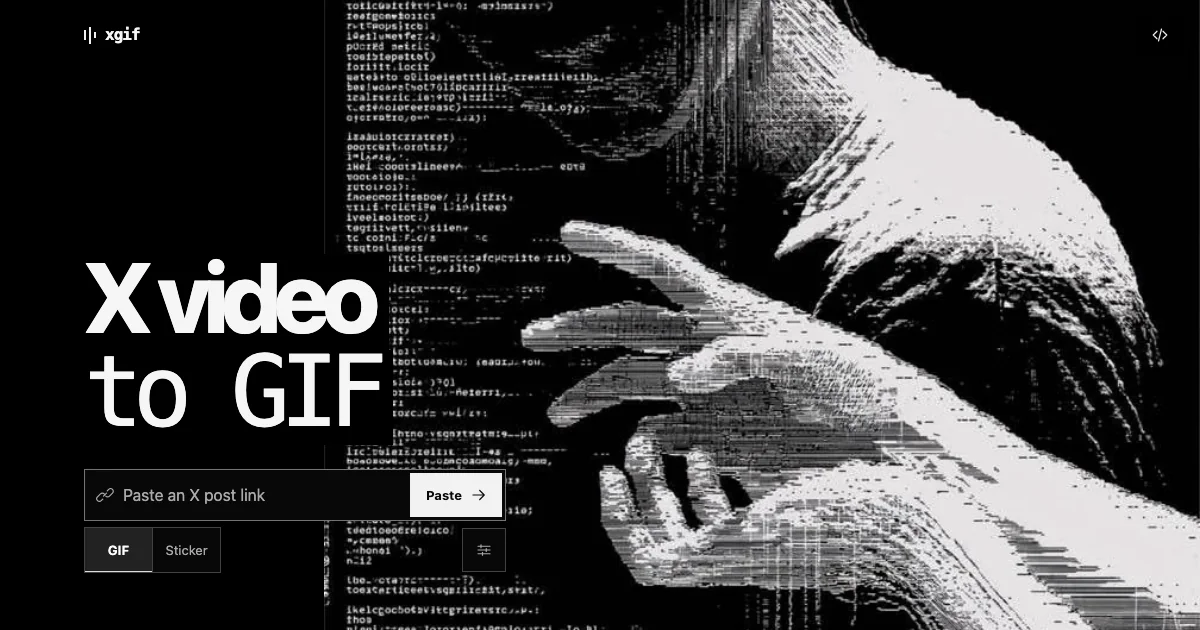
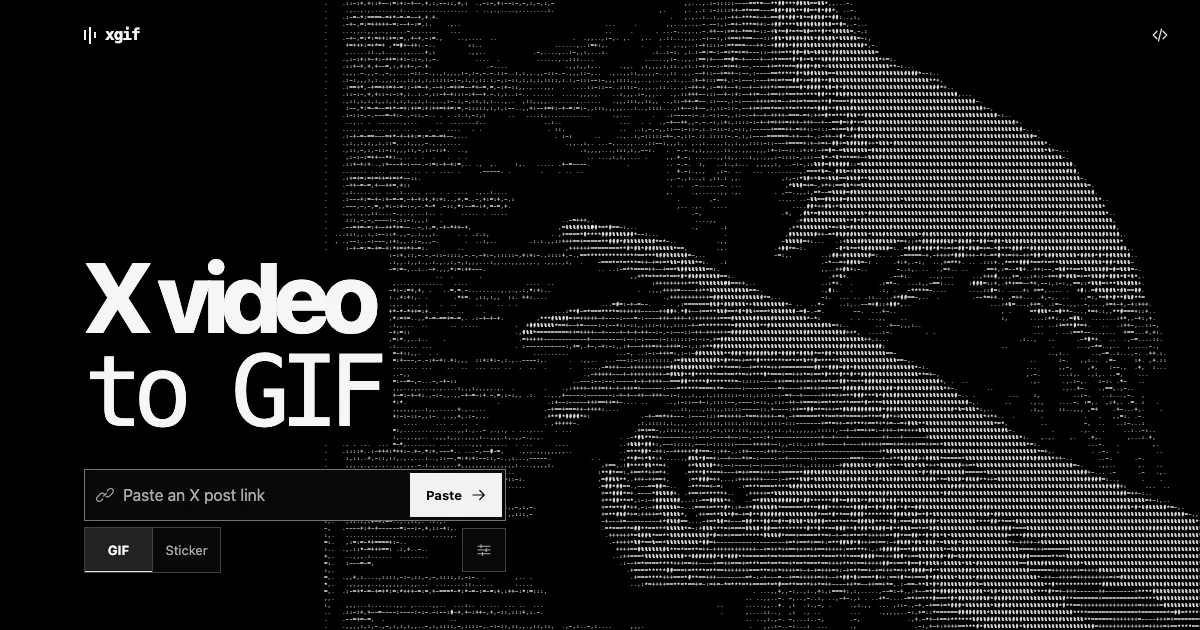
Render the xgif portrait as interactive ASCII

diff --git a/src/artwork.js b/src/artwork.js
@@ -1,38 +1,105 @@
+const ramp = ' .,:-+=*#%@';
+const shades = Array.from({ length: ramp.length }, (_, index) => {
+  const light = Math.round(106 + 149 * index / (ramp.length - 1));
+  return `rgb(${light}, ${light}, ${light})`;
+});
+
 export function mountArtwork(picture) {
-  const motion = matchMedia('(hover: hover) and (pointer: fine) and (prefers-reduced-motion: no-preference)');
   const artwork = picture.parentElement;
   const image = picture.querySelector('img');
-  const echoes = [];
+  const screen = artwork.querySelector('canvas');
+  const display = screen.getContext('2d', { alpha: false });
+  const base = document.createElement('canvas');
+  const glyphs = base.getContext('2d', { alpha: false });
+  const grid = document.createElement('canvas');
+  const sampler = grid.getContext('2d', { willReadFrequently: true });
+  if (!display || !glyphs || !sampler) return;
 
+  const motion = matchMedia('(hover: hover) and (pointer: fine) and (prefers-reduced-motion: no-preference)');
+  let layout;
   let point;
   let previousX;
   let frame;
   let quiet;
 
-  function paint() {
-    frame = undefined;
-    if (!motion.matches || !point) return;
-    const bounds = artwork.getBoundingClientRect();
-    if (!bounds.width || !bounds.height) return;
+  function render() {
+    const width = artwork.clientWidth;
+    const height = artwork.clientHeight;
+    if (!width || !height || !image.naturalWidth) return;
+    const ratio = Math.min(2, devicePixelRatio || 1);
+    const source = image.currentSrc;
+    if (layout?.width === width && layout.height === height && layout.ratio === ratio && layout.source === source) return;
 
-    if (!echoes.length) {
-      for (let index = 0; index < 2; index += 1) {
-        const echo = picture.cloneNode(true);
-        echo.removeAttribute('id');
-        echo.querySelector('img').removeAttribute('fetchpriority');
-        echoes.push(echo);
-        echo.className = 'art-echo';
-        artwork.append(echo);
+    const fontSize = Math.min(9, Math.max(6, Math.round(width / 150)));
+    const rowHeight = fontSize + 1;
+    glyphs.font = `600 ${fontSize}px monospace`;
+    const cellWidth = glyphs.measureText('@').width;
+    const columns = Math.ceil(width / cellWidth);
+    const rows = Math.ceil(height / rowHeight);
+    layout = { width, height, ratio, source, rowHeight };
+
+    const style = getComputedStyle(artwork);
+    const scale = Math.max(width / image.naturalWidth, height / image.naturalHeight);
+    const cropWidth = width / scale;
+    const cropHeight = height / scale;
+    const left = (image.naturalWidth - cropWidth) * Number(style.getPropertyValue('--crop-x'));
+    const top = (image.naturalHeight - cropHeight) * Number(style.getPropertyValue('--crop-y'));
+
+    grid.width = columns;
+    grid.height = rows;
+    sampler.imageSmoothingQuality = 'high';
+    sampler.drawImage(image, left, top, cropWidth, cropHeight, 0, 0, columns, rows);
+    const { data } = sampler.getImageData(0, 0, columns, rows);
+
+    base.width = screen.width = Math.round(width * ratio);
+    base.height = screen.height = Math.round(height * ratio);
+    glyphs.scale(ratio, ratio);
+    glyphs.font = `600 ${fontSize}px monospace`;
+    glyphs.textBaseline = 'top';
+    glyphs.fillStyle = '#000';
+    glyphs.fillRect(0, 0, width, height);
+
+    for (let row = 0; row < rows; row += 1) {
+      let last = 0;
+      for (let column = 0; column < columns; column += 1) {
+        const pixel = (row * columns + column) * 4;
+        const light = (data[pixel] * .2126 + data[pixel + 1] * .7152 + data[pixel + 2] * .0722) / 255;
+        const index = Math.round(Math.pow(light, .72) * (ramp.length - 1));
+        if (!index) continue;
+        if (index !== last) glyphs.fillStyle = shades[index];
+        last = index;
+        glyphs.fillText(ramp[index], column * cellWidth, row * rowHeight);
       }
     }
 
-    const x = (point.clientX - bounds.left) / bounds.width;
-    const y = (point.clientY - bounds.top) / bounds.height;
+    settle();
+    display.drawImage(base, 0, 0);
+  }
+
+  function displace(x, y, width, height, amount) {
+    const usableHeight = Math.min(height, base.height - y);
+    if (usableHeight <= 0) return;
+    display.clearRect(x, y, width, usableHeight);
+    display.drawImage(base, x, y, width, usableHeight, x + amount, y, width, usableHeight);
+  }
+
+  function paint() {
+    frame = undefined;
+    if (!point || !layout || !motion.matches) return;
+    const bounds = artwork.getBoundingClientRect();
+    const { ratio, rowHeight } = layout;
+    const y = Math.max(0, Math.floor((point.clientY - bounds.top) / rowHeight));
+    const relativeX = (point.clientX - bounds.left) / bounds.width - .5;
     const travel = point.clientX - (previousX ?? point.clientX);
-    const shift = Math.min(55, Math.max(-55, (x - .5) * 42 + travel * 1.15));
+    const shift = Math.round(Math.max(-52, Math.min(52, relativeX * 48 + travel)) * ratio);
+    const line = Math.round(rowHeight * ratio);
+    const step = Math.round(base.width * .56);
     previousX = point.clientX;
-    artwork.style.setProperty('--scan', `${Math.min(90, Math.max(5, y * 100))}%`);
-    artwork.style.setProperty('--shift', `${Math.round(shift)}px`);
+
+    display.drawImage(base, 0, 0);
+    displace(0, y * line, step, line, shift);
+    displace(step, (y + 1) * line, base.width - step, 2 * line, shift);
+    displace(0, (y + 4) * line, base.width, line, Math.round(-shift * .55));
     artwork.setAttribute('data-tracking', '');
   }
 
@@ -42,11 +109,16 @@ export function mountArtwork(picture) {
     frame = undefined;
     point = undefined;
     previousX = undefined;
+    if (artwork.hasAttribute('data-tracking')) display.drawImage(base, 0, 0);
     artwork.removeAttribute('data-tracking');
   }
 
+  image.addEventListener('load', render);
+  new ResizeObserver(render).observe(artwork);
+  if (image.complete) render();
+
   artwork.addEventListener('pointermove', event => {
-    if (!motion.matches || event.pointerType === 'touch' || !image.complete || !image.naturalWidth) return;
+    if (!layout || !motion.matches || event.pointerType === 'touch') return;
     point = event;
     frame ??= requestAnimationFrame(paint);
     clearTimeout(quiet);

diff --git a/src/style.css b/src/style.css
@@ -63,6 +63,8 @@ fieldset { border: 0; padding: 0; margin: 0; min-inline-size: 0; }
 }
 .viewer { display: contents; }
 .hero-art {
+  --crop-x: .5;
+  --crop-y: .28;
   position: absolute;
   z-index: -1;
   inset: 0 0 0 auto;
@@ -70,17 +72,7 @@ fieldset { border: 0; padding: 0; margin: 0; min-inline-size: 0; }
   overflow: hidden;
   isolation: isolate;
 }
-.hero-art picture { position: absolute; inset: 0; }
-.hero-art img { display: block; width: 100%; height: 100%; object-fit: cover; object-position: 50% 28%; }
-.hero-art .art-echo {
-  opacity: 0;
-  pointer-events: none;
-  clip-path: polygon(0 calc(var(--scan) - 2%), 61% calc(var(--scan) - 2%), 61% calc(var(--scan) - .8%), 100% calc(var(--scan) - .8%), 100% calc(var(--scan) + 1.6%), 32% calc(var(--scan) + 1.6%), 32% var(--scan), 0 var(--scan));
-  transition: transform 280ms var(--ease), opacity 230ms ease-out;
-}
-.hero-art .art-echo:last-child { clip-path: inset(calc(var(--scan) + 3%) 0 calc(100% - var(--scan) - 4%) 18%); }
-.hero-art[data-tracking] .art-echo { opacity: .92; transform: translateX(var(--shift, 0px)); transition-duration: 65ms; }
-.hero-art[data-tracking] .art-echo:last-child { transform: translateX(calc(var(--shift, 0px) * -.55)); }
+.hero-art canvas { display: block; width: 100%; height: 100%; pointer-events: none; }
 
 .console { min-width: 0; width: min(100%, 422px); }
 h1 {
@@ -186,8 +178,7 @@ progress { flex: 1; min-width: 0; height: 5px; accent-color: var(--accent); }
   .workspace { padding: clamp(135px, 44svh, 430px) max(16px, env(safe-area-inset-right)) max(22px, env(safe-area-inset-bottom)) var(--gutter); }
   .console { margin-inline: auto; }
   h1 { font-size: clamp(49px, 14vw, 76px); margin-bottom: 14px; }
-  .hero-art { width: 100%; }
-  .hero-art img { object-position: 54% 19%; }
+  .hero-art { width: 100%; --crop-x: .54; --crop-y: .19; }
   .workspace:has(#result:not([hidden])) { grid-template-columns: minmax(0, 1fr); align-content: start; padding-top: 72px; }
   #result { justify-self: center; }
   dialog { inset: auto 0 0; width: 100%; margin: 0; padding-bottom: max(16px, env(safe-area-inset-bottom)); border-radius: 10px 10px 0 0; }
@@ -199,7 +190,6 @@ progress { flex: 1; min-width: 0; height: 5px; accent-color: var(--accent); }
   #remove-file { width: 35px; }
 }
 @media (prefers-reduced-motion: reduce) {
-  .hero-art .art-echo { display: none; }
   dialog[open] { animation: none; }
   button, .icon-button, .primary, .secondary { transition: none; }
   button:active:not(:disabled) { transform: none; }

diff --git a/index.html b/index.html
@@ -94,10 +94,11 @@
 
       <div class="viewer">
         <div class="hero-art" aria-hidden="true">
-          <picture id="art">
+          <picture id="art" hidden>
             <source media="(max-width: 680px)" srcset="/src/assets/signal-small.webp">
             <img src="/src/assets/signal.webp" alt="" width="736" height="1314" fetchpriority="high">
           </picture>
+          <canvas></canvas>
         </div>
         <section id="result" aria-labelledby="result-name" tabindex="-1" hidden>
           <div class="preview"><img id="preview" alt="Converted animation"></div>
